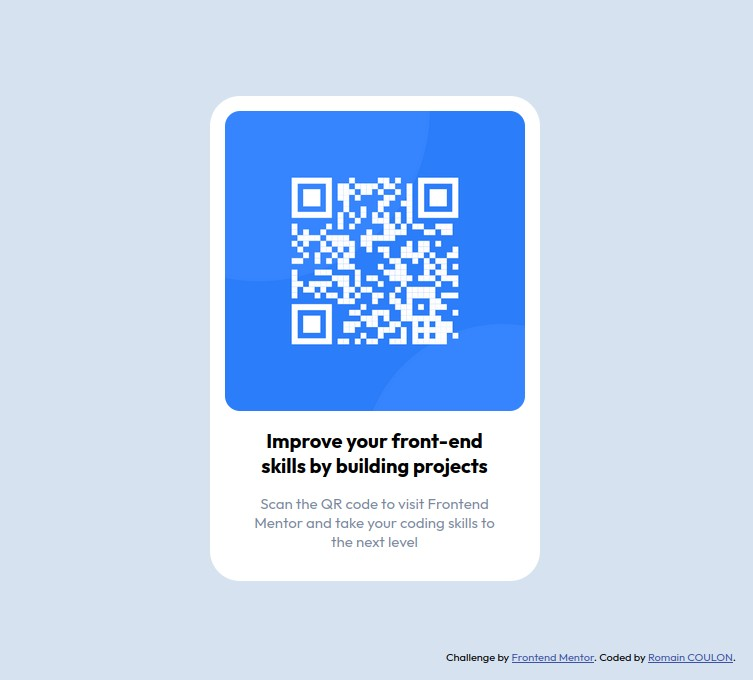
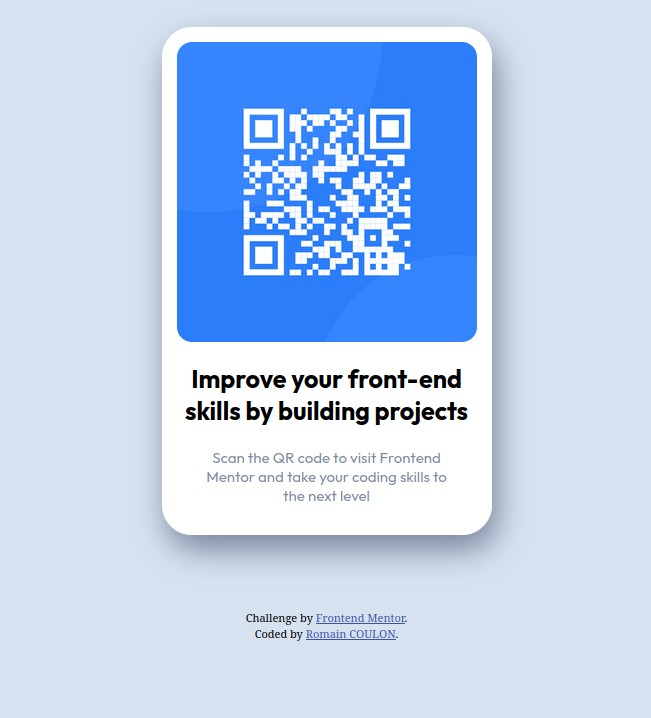
Aadd main and footer for accecibility, change css style and update sreenshot and Readme

diff --git a/index.html b/index.html
@@ -16,15 +16,19 @@
   </style>
 </head>
 <body>
-  <div class="cardContainer">
-    <img class="qrCodeImg" src="images/image-qr-code.png" alt="QR code for link to Frontend Mentor website">
-    <h2>Improve your front-end skills by building projects</h2>
-    <p>Scan the QR code to visit Frontend Mentor and take your coding skills to the next level</p>
-  </div>
+  <main>
+    <div class="cardContainer">
+      <img class="qrCodeImg" src="images/image-qr-code.png" alt="QR code for link to Frontend Mentor website">
+      <h2>Improve your front-end skills by building projects</h2>
+      <p>Scan the QR code to visit Frontend Mentor and take your coding skills to the next level</p>
+    </div>
+  </main>
 
-  <div class="attribution">
-    Challenge by <a href="https://www.frontendmentor.io?ref=challenge" target="_blank">Frontend Mentor</a>.
-    Coded by <a href="#">Romain COULON</a>.
-  </div>
+  <footer>
+    <div class="attribution">
+      Challenge by <a href="https://www.frontendmentor.io?ref=challenge" target="_blank">Frontend Mentor</a>.
+      Coded by <a href="#">Romain COULON</a>.
+    </div>  
+  </footer>
 </body>
 </html>

diff --git a/style.css b/style.css
@@ -16,7 +16,13 @@ body{
   flex-direction: column;
   justify-content: center;
   align-items: center;
-  position: relative;
+}
+
+main{
+  display: flex;
+  flex-direction: column;
+  justify-content: center;
+  align-items: center;
   font-family: 'Outfit', sans-serif;
 }
 
@@ -27,6 +33,7 @@ body{
   background-color: hsl(0, 0%, 100%);
   border-radius: 30px;
   text-align: center;
+  box-shadow: 5px 15px 30px hsl(220, 15%, 55%);
 }
 
 .qrCodeImg{
@@ -38,9 +45,9 @@ body{
 }
 
 h2{
-  font-size: 20px;
+  font-size: 25px;
   font-weight: 700;
-  padding: 0px 40px;
+  padding: 0px 20px;
 }
 
 p{
@@ -52,9 +59,8 @@ p{
 }
 
 /* Signature */
+
 .attribution{
-  position: absolute;
-  right: 20px;
-  bottom: 20px;
-  z-index: -1;
+  width: 180px;
+  margin: 75px auto;
 }

diff --git a/README.md b/README.md
@@ -10,8 +10,6 @@ This is a solution to the [QR code component challenge on Frontend Mentor](https
 - [My process](#my-process)
   - [Built with](#built-with)
   - [What I learned](#what-i-learned)
-  - [Continued development](#continued-development)
-  - [Useful resources](#useful-resources)
 - [Author](#author)
 
 **Note: Delete this note and update the table of contents based on what sections you keep.**
@@ -34,13 +32,12 @@ This is a solution to the [QR code component challenge on Frontend Mentor](https
 
 - Semantic HTML5 markup
 - CSS custom properties
-- Position
 - Flexbox
 
 ### What I learned
 
 It's my fisrt challenge on FrontEnd Mentor.
-I learned basic css property (border radius, width, margin, padding), position for the signature and flexbox.
+I learned basic css property (border radius, width, margin, padding) and flexbox.
 
 ## Author
 
